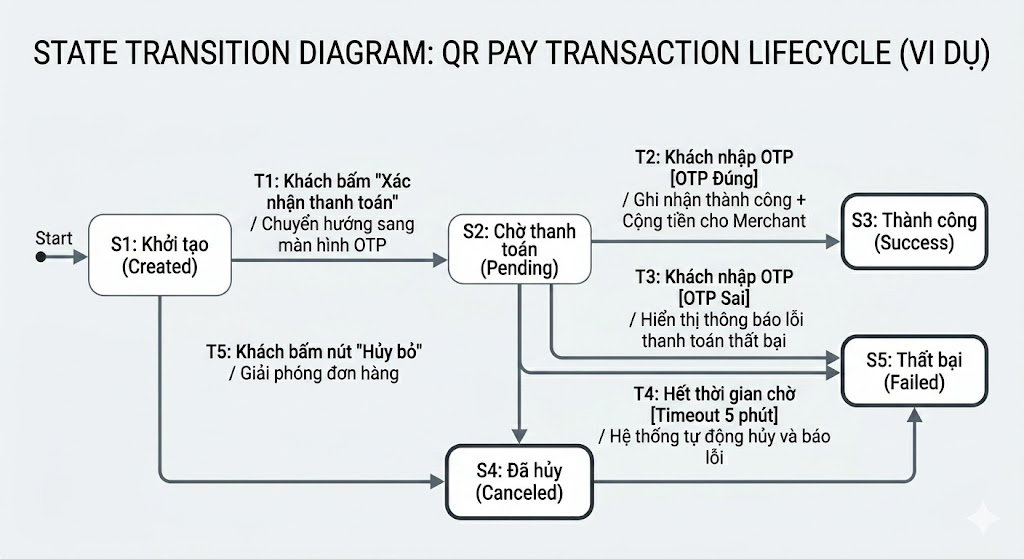
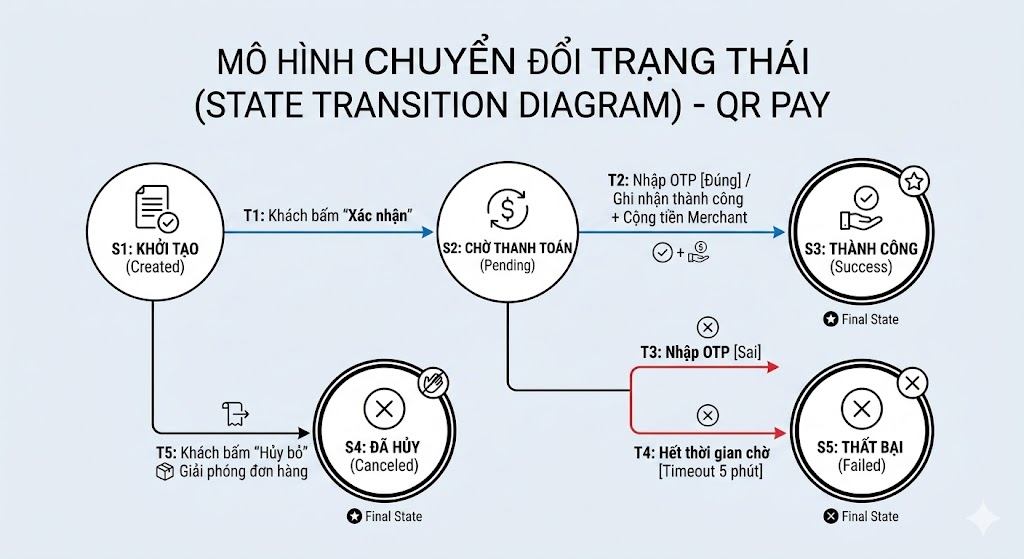
docs: test analysis and design > add state transition testing (solved) example notes

diff --git a/01-manual-testing/04-test-analysis-and-design/README.md b/01-manual-testing/04-test-analysis-and-design/README.md
@@ -320,3 +320,24 @@ All states coverage is weaker than valid transitions coverage, because it can ty
 > - **S5: Thất bại (Failed)**: Khách nhập sai OTP quá số lần hoặc hệ thống ngân hàng bị lỗi kết nối timeout. (Trạng thái cuối).
 >
 > ![State Transition Diagram Model](./state-diagram-model-exam.jpeg)
+>
+> **All state coverage** thì ta viết TC sao cho đi qua các state:
+>
+> - TC1: S1 (T1) &rarr; S2 (T2) &rarr; S3
+> - TC2: S1 (T1) &rarr; S2 (T3) &rarr; S5
+> - TC3: S1 (T5) &rarr; S4
+>
+> **Valid transition coverage** (phổ biến nhất) thì ta viết TC phải thực thi tất cả các bước chuyển đổi hợp lệ:
+>
+> - TC1: S1 (T1) &rarr; S2 (T2) &rarr; S3
+> - TC2: S1 (T1) &rarr; S2 (T3) &rarr; S5
+> - TC3: S1 (T1) &rarr; S2 (T4) &rarr; S5
+> - TC4: S1 (T5) &rarr; S4
+>
+> **All transition coverage** thì ta viết TC phải thực thi tất cả các bước chuyển đổi hợp lệ và cố gắng thực thi các bước chuyển đổi không hợp lệ.
+>
+> ![State Table Example](./state-table-exam.png)
+>
+> (S: State, E: Event, A: Action, -: illegal transition)
+>
+> Ví dụ: Đang ở trạng thái Thành công S3 mà hệ thống lại nhận được sự kiện Nhập OTP E2 là những _chuyển đổi không hợp lệ_. Nếu test luồng này mà hệ thống vẫn đổi trạng thái hoặc trừ thêm tiền $\rightarrow$ Hệ thống dính Bug logic nghiêm trọng!
